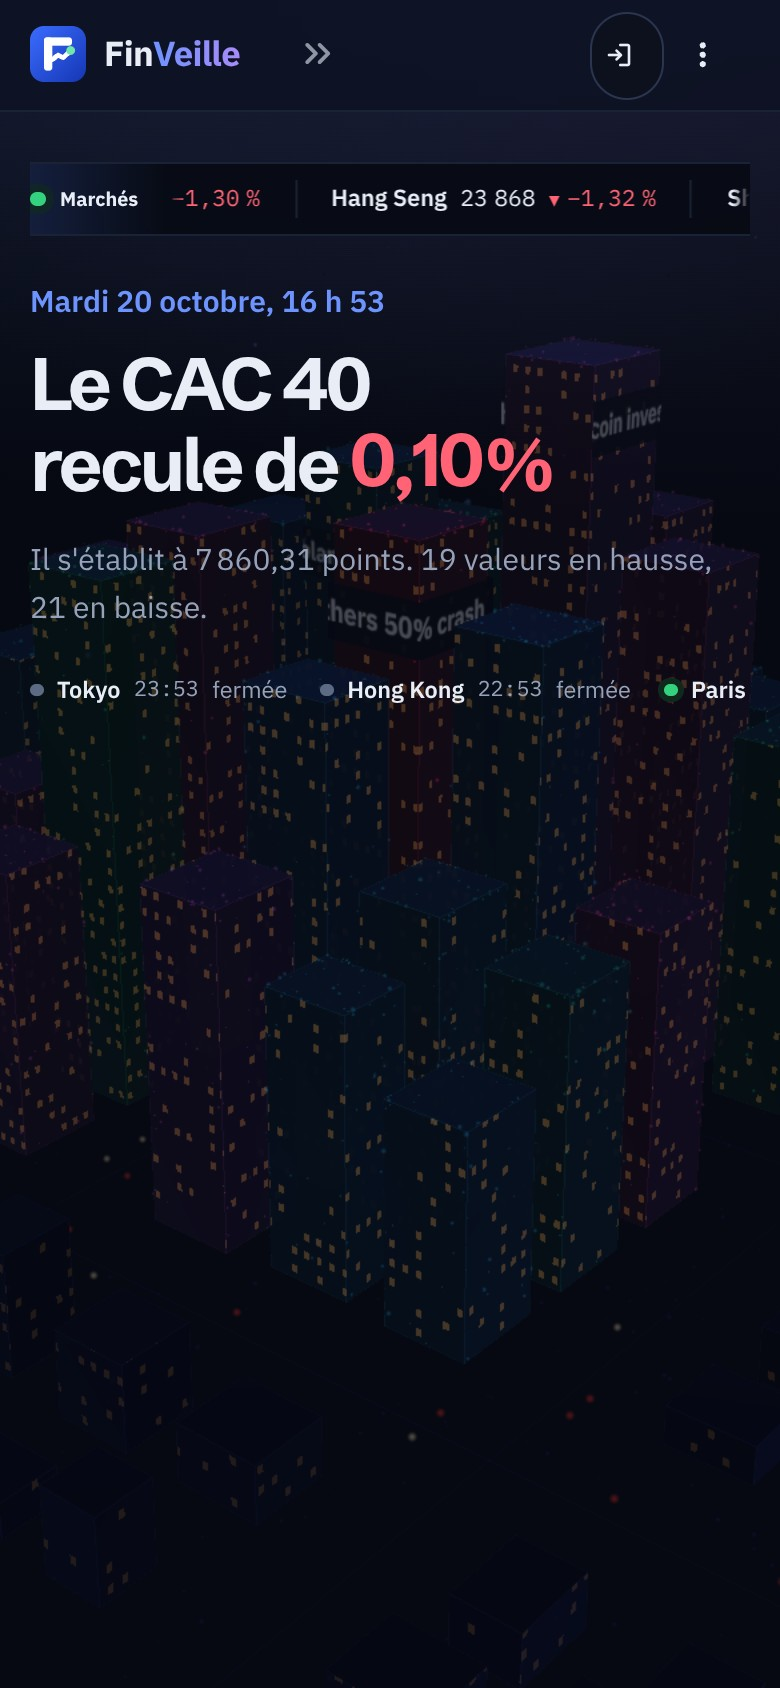
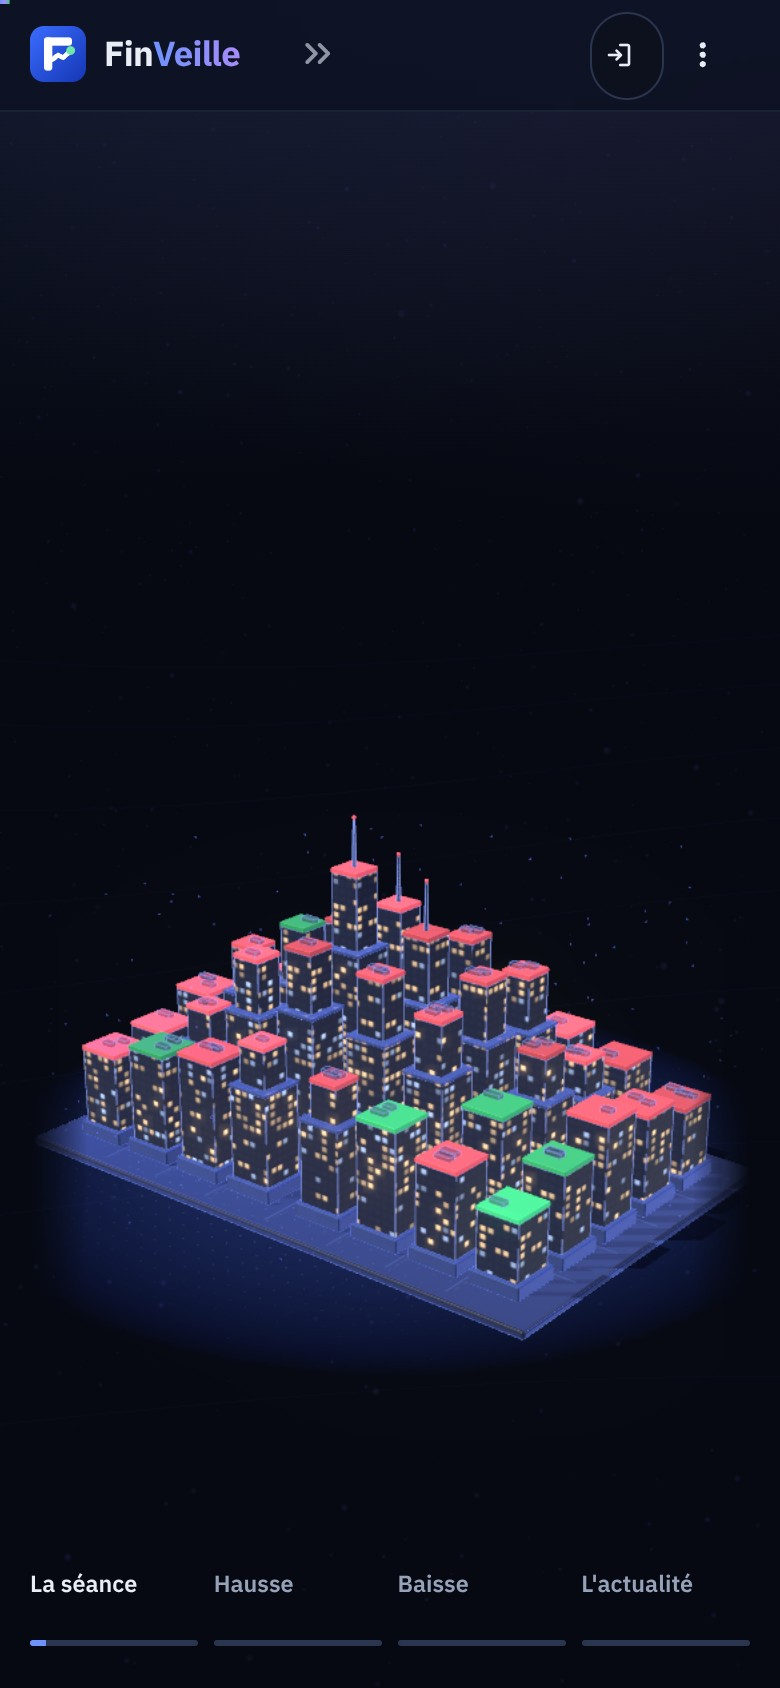
Étape 33 (en cours) : les 13 maquettes détaillées, guide 33, captures
Claude-Session: https://claude.ai/code/session_01SpDZZekPUjssTt5K9KSHka

diff --git a/static/fv3d/atelier.js b/static/fv3d/atelier.js
@@ -251,9 +251,9 @@ function newspaper(x, W, H, dark, front, seed) {   // une page de journal : en-t
     x.textAlign = "left";
     x.fillText("ÉDITION DU MATIN", M, 292);
     x.textAlign = "center";
-    x.fillText("MARCHÉS · ÉCONOMIE · ENTREPRISES", W / 2, 292);
+    x.fillText("MARCHÉS, ÉCONOMIE, ENTREPRISES", W / 2, 292);
     x.textAlign = "right";
-    x.fillText("BOURSE · TAUX · CRYPTOS", W - M, 292);
+    x.fillText("BOURSE, TAUX, CRYPTOS", W - M, 292);
     rule(304, 1);
     y = 372;
   }
@@ -316,7 +316,7 @@ function newspaper(x, W, H, dark, front, seed) {   // une page de journal : en-t
   x.fillStyle = mid;
   x.font = `600 14px ${FONT}`;
   x.textAlign = "center";
-  x.fillText("FINVEILLE · LA VEILLE FINANCIÈRE DU MATIN", W / 2, H - 28);
+  x.fillText("FINVEILLE, LA VEILLE FINANCIÈRE DU MATIN", W / 2, H - 28);
 }
 function fold(pal, W, D, material, layers, lean, edge, seed) {   // un journal plié en deux : deux moitiés qui se rejoignent au pli
   const g = new THREE.Group(), rnd = random(seed), th = 0.013;
@@ -1288,7 +1288,7 @@ function gear(data, pal, scene) {
     x.textAlign = "left";
     x.textBaseline = "middle";
     x.letterSpacing = `${ch * 0.1}px`;
-    x.fillText("MÉCANISME DE RÉGLAGE · N° 1", 0, ch * 0.54);
+    x.fillText("MÉCANISME DE RÉGLAGE, n° 1", 0, ch * 0.54);
   }, 200);
   plaque.position.set(cx - pw / 2 + 0.55 + 1.7, 0.21 + ph - 0.38, -0.494);
   root.add(border, plaque);

diff --git a/guide/33-maquettes-3d.md b/guide/33-maquettes-3d.md
@@ -3,10 +3,11 @@
 > **Objectif :** sortir la 3D du simple décor, en posant de vraies maquettes (ville, globe, pièces, assistant) dans les
 > pages, leur donner la matière du site plutôt qu'un look d'icône, et finir la bande-annonce sur de la musique.
 
-Fichiers créés : `static/fv3d/vitrines.js`, `static/fv3d/kit.js`, `tools/music.py`, `tools/vitrines_preview.py` (et son
-`.html`), `video/public/music.mp3`, le dossier `.claude/` (skills et agents), `CLAUDE.md`, ce guide. Fichiers modifiés :
-`scene3d.py`, `theme.py`, `static/fv3d/engine.js`, `tools/footage.py`, `video/src/Trailer.tsx`, les tests,
-`README.md`.
+Fichiers créés : `static/fv3d/vitrines.js`, `kit.js`, `models.js`, `atelier.js`, le dossier `static/fv3d/addons/`
+(modules de Three.js : environnement, boîtes arrondies, effets), `tools/music.py`, `tools/vitrines_preview.py` (et son
+`.html`), `video/public/music.mp3`, le dossier `.claude/` (skills et agents), `CLAUDE.md`, ce guide. Fichiers
+modifiés : `scene3d.py`, `theme.py`, `views/feed.py`, `views/crypto.py`, `static/fv3d/engine.js`, `tools/footage.py`,
+`video/src/Trailer.tsx`, `tests/test_market_theme.py`, `README.md`.
 
 ---
 
@@ -141,7 +142,7 @@ Le montage (`Trailer.tsx`) range chaque scène sur un nombre entier de mesures. 
 mesure fait 60 images. Avec `TransitionSeries`, une scène dure donc :
 
 ```text
-durée d'une scène = n mesures x 60 images + 15 images de fondu
+durée d'une scène = n mesures × 60 images + 15 images de fondu
 ```
 
 Toutes les coupes tombent ainsi sur un temps fort. La musique entre par `<Audio>` de `@remotion/media`, avec un fondu de

diff --git a/README.md b/README.md
@@ -14,7 +14,7 @@ entreprises et les thèmes de son utilisateur, affiche les cours des marchés mo
 Application web en Python (Streamlit), construite pas à pas : chaque étape est un commit, documenté dans
 [`guide/`](guide/README.md).
 
-![L'accueil de FinVeille raconte la séance : la plus forte hausse du CAC 40 et sa tour dans la ville 3D](docs/screenshots/fil-3d.jpg)
+![L'accueil de FinVeille raconte la séance : la plus forte hausse du CAC 40 s'allume dans la maquette 3D](docs/screenshots/fil-3d.jpg)
 
 ▶ [Voir la bande-annonce (48 s, avec sa musique)](docs/branding/trailer.mp4), montée en motion design avec Remotion sur une musique composée par le code : la séance du jour en chiffres, la maquette 3D du CAC 40, le globe de bureau des marchés, les pièces des cryptomonnaies, l'assistant IA. · [Démonstration des transitions (29 s)](docs/branding/demo.mp4)
 
